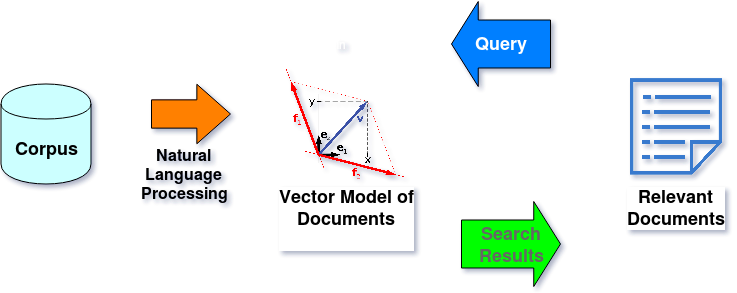
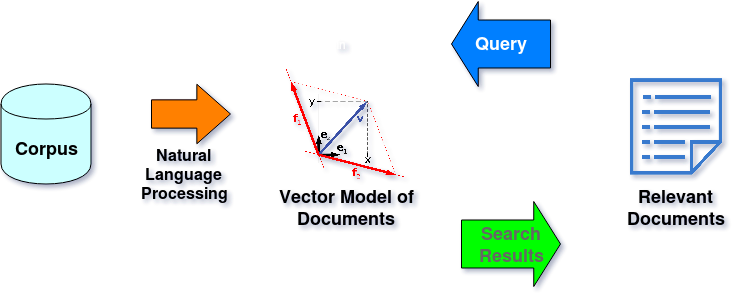
made diagram background transparent

Changed region(s): [[0.3745, 0.6451, 0.5929, 0.8908], [0.8426, 0.6451, 0.9986, 0.7986]]

diff --git a/README.md b/README.md
@@ -2,7 +2,7 @@
 
 ![alt text](diagram.png "Project Diagram")
 
-# 1. The Point of this Project:
+# 1. The Goal of this Project:
 Implements full text search by indexing an input array of texts using the Okapi BM25 similarity.
 
 # 2. The Design:
@@ -12,3 +12,4 @@ This function computes a BM25 document-term matrix, and stores this matrix as an
 npm install retrieval
 
 # 4. Usage:
+Please see the demo folder.
